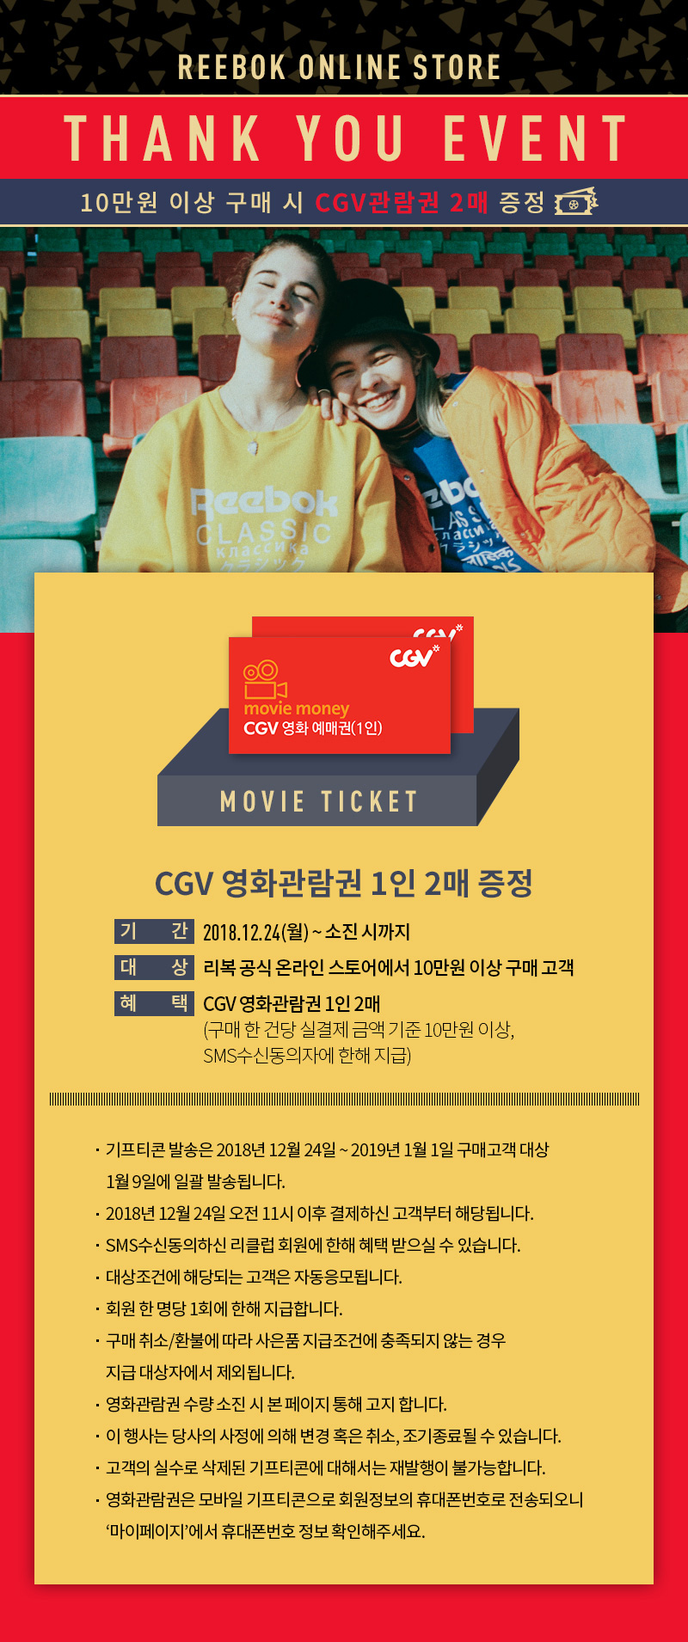
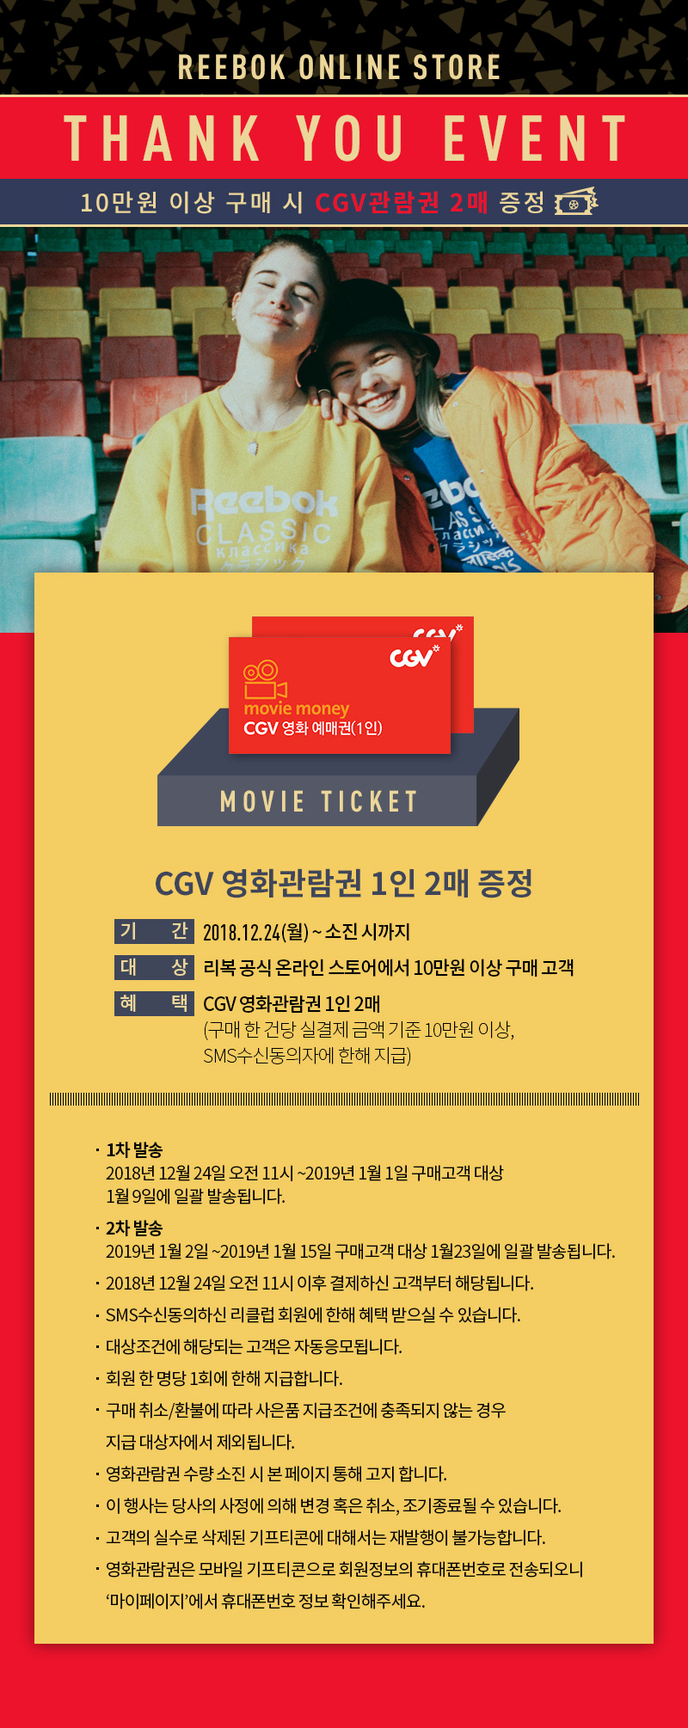
무비

Changed region(s): [[0.0, 0.0309, 1.0, 0.9885], [0.6562, 0.8031, 0.7188, 0.834]]

diff --git a/mobile/html/reebok/event/aboutus/campaign/reeclub_movie/build/index.html b/mobile/html/reebok/event/aboutus/campaign/reeclub_movie/build/index.html
@@ -59,15 +59,25 @@
 			<!-- //header -->
 
 			<section id="contents">
-<style type="text/css">#contents{padding-bottom:0px}.pseudo-element,.campaign .close:after,.campaign .close:before,.campaign .video_visual .video_layer:before,.campaign .video-btn:before,.campaign .location a:after{content:'';display:block}html{font-size:12px}@media screen and (max-width: 320px){html{font-size:10px}}@media screen and (min-width: 800px){html{font-size:12px}}.element_to_pop_up{background-color:#fafafb;color:#000;display:none;width:320px;overflow:hidden}@media screen and (max-width: 320px){.element_to_pop_up{width:300px}}.element_to_pop_up .b-close{cursor:pointer;position:absolute;right:15px;top:15px;text-align:right}.element_to_pop_up .b-close img{width:50%}.element_to_pop_up .con{text-align:center}.element_to_pop_up .con img{width:80%}.element_to_pop_up .desc{background:url("/images/reebok/about/heritage/pop_bg.png") 0 0 no-repeat;background-size:100% 100%;padding:3.5rem 0}.element_to_pop_up .desc .tle{position:relative;margin:0px 0 0 1rem;color:#000;font:600 4rem 'dinpro cond'}.element_to_pop_up .desc .tle:before{position:absolute;top:-20px;content:'';width:42px;height:2px;background:#000}.element_to_pop_up .desc .tle2{margin:1rem 0 0 1rem;color:#000;font:0.9rem/1.8rem  'NotoSansKR';letter-spacing:-0.8px}.element_to_pop_up .desc .btn{padding:2rem 0 0 1rem}.element_to_pop_up .desc .btn a.inner-buybtn{position:relative;display:inline-block;margin:0;padding:0 50px;color:#866432;border:2px solid #866432;font:15px/46px  'NotoSansKR';overflow:hidden}.element_to_pop_up .desc .btn a.inner-buybtn em{position:relative;z-index:100;transition:all 0.6s ease-out}.element_to_pop_up .desc .btn a.inner-buybtn .bg{display:inline-block;width:100%;height:63px;position:absolute;bottom:-64px;left:0;background:#866432;transition:all 0.4s ease-out}.element_to_pop_up .desc a.inner-buybtn:hover{color:#fff}.element_to_pop_up .desc a.inner-buybtn:hover .bg{bottom:-10px}.element_to_pop_up .bg_shoe{position:absolute;bottom:0;text-align:right}.element_to_pop_up .bg_shoe img{width:60%;mix-blend-mode:multiply}.clearfix:after{content:'.';display:block;height:0;font-size:0;clear:both;visibility:hidden}.campaign .close{width:40px;height:40px;display:block;position:absolute;top:0;right:0;z-index:10}.campaign .close:after,.campaign .close:before{width:50%;height:1px;position:absolute;top:50%;left:50%;transform:translate3d(-50%, -50%, 0) rotate(45deg);-webkit-transform:translate3d(-50%, -50%, 0) rotate(45deg);background:#5c5c5c}.campaign .close:after{transform:translate3d(-50%, -50%, 0) rotate(-45deg);-webkit-transform:translate3d(-50%, -50%, 0) rotate(-45deg)}.campaign .button_area{padding:0rem 0px;text-align:center}.campaign .button_area .button{padding:1.2rem 2.5rem;display:inline-block;font:500 1.3rem 'dinpro cond','NotoSansKR';color:#000;border:1px solid  #000}.campaign .video_visual{box-sizing:border-box;-webkit-box-sizing:border-box;width:100%;padding-bottom:123.4375%;position:relative}.campaign .video_visual .cover{width:100%;position:absolute;top:50%;left:0;transform:translate3d(0, -50%, 0);-webkit-transform:translate3d(0, -50%, 0);z-index:1}.campaign .video_visual .cover h2{font:4rem/4rem 'QStencil';text-align:center}.campaign .video_visual .bg{position:absolute;width:100%;height:100%}.campaign .video_visual .bg img{width:100%}.campaign .video_visual .video_layer{position:absolute;top:0;left:0;width:100%;height:100%;z-index:-1;overflow:hidden}.campaign .video_visual .video_layer .close{width:40px;height:40px;top:5px;right:5px;opacity:0;transition:opacity 0.5s ease 0.3s;-webkit-transition:opacity 0.5s 0.3s}.campaign .video_visual .video_layer .close:before,.campaign .video_visual .video_layer .close:after{width:70%;height:2px;background:#fff}.campaign .video_visual .video_layer iframe{position:relative;z-index:3}.campaign .video_visual .video_layer:before{width:100%;height:100%;transition:all 0.5s;-webkit-transition:all 0.5s;background:#000;filter:blur(10px);-webkit-filter:blur(10px);opacity:0;transform-origin:center center;-webkit-transform-origin:center center;transform:scale(0);-webkit-transform:scale(0);position:absolute;top:0;left:0}.campaign .video_visual .video_layer.active{z-index:1}.campaign .video_visual .video_layer.active .close{opacity:1}.campaign .video_visual .video_layer.active:before{opacity:1;transform:scale(2);-webkit-transform:scale(2)}.campaign .video_visual .video_layer.hide{z-index:1}.campaign .video_visual .video_layer.hide .close{opacity:0;transition-delay:0;-webkit-transition-delay:0}.campaign .video_visual .video_layer.hide:before{opacity:0;transform:scale(0);-webkit-transform:scale(0)}.campaign .video-btn{width:70px;height:70px;display:block;border:7px solid  #fff;position:relative;border-radius:70px;box-sizing:border-box;-webkit-box-sizing:border-box}.campaign .video-btn:before{position:absolute;top:50%;left:50%;border-top:14px solid transparent;border-bottom:14px solid transparent;border-left:14px solid #fff;margin-left:2px;transform:translate3d(-50%, -50%, 0);-webkit-transform:translate3d(-50%, -50%, 0)}.campaign .location{display:-webkit-flex;display:-moz-flex;display:-ms-flex;display:-o-flex;display:flex;padding:15px 13px;border-top:2px solid  #b71720;background:#252525}.campaign .location>*{margin-right:15px;font:500 13px 'dinpro cond';text-transform:uppercase}.campaign .location a{position:relative;color:#8c8c8c}.campaign .location a:after{width:4px;height:4px;position:absolute;top:2px;right:-9px;border-bottom:1px solid #5c5c5c;border-right:1px solid #5c5c5c;transform:rotate(-45deg);-webkit-transform:rotate(-45deg)}.campaign .location>span{color:#fff;margin-right:0}.campaign .location>span .colab{margin:0px 2px;font-family:'dinpro cond';font-weight:100}.campaign .num_paging{text-align:center}.campaign .num_paging a{width:26px;height:26px;border-radius:26px;margin:0 2px;display:inline-block;border:1px solid #fff;box-sizing:border-box;color:#fff;font:16px/26px 'reefont-condensed';transition-duration:0s;-webkit-transition-duration:0s}.campaign .num_paging .on{color:#000;border-color:#000;background:#000;color:#fff}.campaign .prodlist{width:100%;padding:0 15px;position:relative;display:-webkit-flex;display:-moz-flex;display:-ms-flex;display:-o-flex;display:flex;-webkit-flex-wrap:wrap;flex-wrap:wrap;box-sizing:border-box;-webkit-box-sizing:border-box}.campaign .prodlist>.box{width:50%;margin-bottom:10px}.campaign .prodlist>.box .inner{width:100%;padding-right:5px;position:relative;box-sizing:border-box;-webkit-box-sizing:border-box}.campaign .prodlist>.box .inner>a{width:100%;width:calc(100% - 5px);height:100%;position:absolute;top:0;left:0;display:block;z-index:5}.campaign .prodlist>.box .img{width:100%;position:relative;padding-bottom:122.6190%;background:#fff}.campaign .prodlist>.box .img img{position:absolute;top:0;left:0;width:100%}.campaign .prodlist>.box .info{padding:20px 0 20px 12px;background:#fff}.campaign .prodlist>.box .info>*{text-transform:uppercase;font:500 1rem 'dinpro cond'}.campaign .prodlist>.box .info .ctgr{margin-bottom:0.2rem;color:#7f7979}.campaign .prodlist>.box .info .tit a{color:#252525;font:500 1.4rem 'dinpro cond'}.campaign .prodlist>.box:nth-child(2n) .inner{padding-right:0;padding-left:5px}.main .video_visual{width:100%;padding-bottom:104%;position:relative}.main .video_visual .cover>*{color:#fff;text-align:center}.main .video_visual .cover h2{font:5.4rem/5rem 'QStencil';color:#fff;margin-bottom:1.2rem}.main .video_visual .cover .desc{margin-bottom:2rem;font:300 1.6rem 'NotoSansKR'}.main .video_visual .cover .video-btn{width:60px;height:60px;border-width:6px;margin:0 auto}.main .video_visual .cover .video-btn:before{border-top-width:12px;border-bottom-width:12px;border-left-width:12px}.main .video_visual .bg{overflow:hidden}.main .video_visual .bg img{position:absolute;top:0;left:0;opacity:0;transform:scale(1.02);-webkit-transform:scale(1.02);transition:all 1.5s;-webkit-transition:all 1.5s}.main .video_visual .bg img.active{opacity:1;transform:scale(1);-webkit-transform:scale(1)}.main .camapign_list a{width:100%;padding-bottom:104%}.main .camapign_list img{width:100%}.about_campaign .banner{width:100%}.about_campaign .banner *{display:block;width:100%}.about_campaign .list_btn{background:#e8e8e8;padding:4rem 1.5rem}.about_campaign .list_btn a{width:100%;height:5rem;display:block;border:1px solid #2e2e2e;text-align:center;font:500 2.2rem/5rem 'dinpro cond';color:#000;letter-spacing:2px}.about_campaign .list{background:#333;text-align:center}.about_campaign .list a{color:#fff;display:block;padding:2.3rem 6rem}.about_campaign .list a span{position:relative;left:-5px;display:inline-block;width:68%;vertical-align:middle}.about_campaign .list a span img{width:100%}.about_campaign .list a em{vertical-align:middle}.about_campaign .list a em:after{font-size:15px;position:relative;top:1px}.about_campaign .list a:after{font-size:1.5rem;padding:0.5rem 0 0 1rem;display:inline-block}#video-layer.popup-video.loaded .bg{opacity:.7}#video-layer.popup-video .video-box{position:absolute;top:50%;left:50%;width:100%;height:50%;transform:translate(-50%, -50%);-webkit-transform:translate(-50%, -50%);-moz-transform:translate(-50%, -50%);-o-transform:translate(-50%, -50%);-ms-transform:translate(-50%, -50%);z-index:3}#video-layer.popup-video .close_x_btn{width:50px;height:50px;top:12%}#video-layer{position:fixed;top:0;left:0;width:100%;height:100%;z-index:1000}#video-layer.loaded .bg{opacity:1;transform:scale(1.2);-webkit-transform:scale(1.2)}#video-layer.loaded .close_x_btn{opacity:1}#video-layer .video-box{position:relative;width:100%;height:100%;z-index:3}#video-layer .close_x_btn{width:70px;height:70px;position:absolute;top:0;right:0;z-index:5;opacity:0}#video-layer .bg{width:100%;height:100%;position:absolute;top:0;left:0;transform-origin:center center;-webkit-transform-origin:center center;transform:scale(0);-webkit-transform:scale(0);opacity:0;background:#000;z-index:1;transition:all 0.4s;-webkit-transition:all 0.4s}.main_list .video_visual{position:relative;background:#eff0ea;padding-bottom:149%}@media screen and (min-width: 750px){.main_list .video_visual{padding-bottom:125%}}.main_list .video_visual .bg img{box-sizing:border-box;-webkit-box-sizing:border-box;border:10px solid #eff0ea}.main_list .video_visual .cover{top:35%}.main_list .video_visual .txt{position:absolute;bottom:8%;width:100%;text-align:center}.main_list .video_visual .txt a.full_link{position:absolute;top:-16px;left:0;width:100%;height:143%}@media screen and (min-width: 750px){.main_list .video_visual .txt{bottom:6%}}.main_list .video_visual .txt .title{font:3.3rem 'QStencil'}.main_list .video_visual .txt .tit{display:inline-block;padding-bottom:1.5rem;font:400 1.2rem 'NotoSansKR';letter-spacing:-1px}.main_list .video_visual .txt .btn a{display:inline-block;padding:0.3rem 3.5rem 0 3.5rem;border:1px solid #151515;font:400 1.3rem/3.8rem 'dinpro cond', 'NotoSansKR';color:#000}.main_list .box{position:relative;border-bottom:2px solid #bebfba}.main_list .box a.nano_m{position:absolute;top:0;left:0;width:50%;height:100%}.main_list .box a.nano_w{position:absolute;top:0;right:0;width:50%;height:100%}.main_list .box a.full_link{position:absolute;top:0;left:0;width:100%;height:100%}.main_list .box .img{border:10px solid #eff0ea;box-sizing:border-box;-webkit-box-sizing:border-box}.main_list .box .img img{width:100%}.main_list .box .txt{padding:1rem 0 3rem 0;text-align:center;background:#eff0ea}.main_list .box .txt .title{font:3.8rem 'QStencil'}.main_list .box .txt .title span{display:inline-block;vertical-align:middle;line-height:4rem}.main_list .box .txt .title span img{width:3.3rem}.main_list .box .txt .tit{display:inline-block;padding-bottom:1.5rem;font:400 1.1rem 'NotoSansKR';letter-spacing:-1px}.main_list .box .txt .btn a{display:inline-block;width:12rem;padding:0.3rem 0 0 0;border:1px solid #151515;font:1.3rem/3.8rem 'dinpro cond', 'NotoSansKR';color:#000}.campaign_list_update{display:block;background:url("/images/reebok/about/campaign_list/bg.jpg");background-size:100%;padding:8rem 1rem 4rem 1rem}.campaign_list_update .box{padding-bottom:1rem}.campaign_list_update .box a{display:block}.campaign_list_update .box a img{width:100%}.campaign_list_update .box:last-child{padding-bottom:0px}.reeclub_movie .main{position:relative}.reeclub_movie .main .bg img{width:100%}.reeclub_movie .main a{position:absolute;top:87.8%;left:27%;width:46%;height:2.2%}
+<style type="text/css">#contents{padding-bottom:0px}.pseudo-element,.campaign .close:after,.campaign .close:before,.campaign .video_visual .video_layer:before,.campaign .video-btn:before,.campaign .location a:after{content:'';display:block}html{font-size:12px}@media screen and (max-width: 320px){html{font-size:10px}}@media screen and (min-width: 800px){html{font-size:12px}}.element_to_pop_up{background-color:#fafafb;color:#000;display:none;width:320px;overflow:hidden}@media screen and (max-width: 320px){.element_to_pop_up{width:300px}}.element_to_pop_up .b-close{cursor:pointer;position:absolute;right:15px;top:15px;text-align:right}.element_to_pop_up .b-close img{width:50%}.element_to_pop_up .con{text-align:center}.element_to_pop_up .con img{width:80%}.element_to_pop_up .desc{background:url("/images/reebok/about/heritage/pop_bg.png") 0 0 no-repeat;background-size:100% 100%;padding:3.5rem 0}.element_to_pop_up .desc .tle{position:relative;margin:0px 0 0 1rem;color:#000;font:600 4rem 'dinpro cond'}.element_to_pop_up .desc .tle:before{position:absolute;top:-20px;content:'';width:42px;height:2px;background:#000}.element_to_pop_up .desc .tle2{margin:1rem 0 0 1rem;color:#000;font:0.9rem/1.8rem  'NotoSansKR';letter-spacing:-0.8px}.element_to_pop_up .desc .btn{padding:2rem 0 0 1rem}.element_to_pop_up .desc .btn a.inner-buybtn{position:relative;display:inline-block;margin:0;padding:0 50px;color:#866432;border:2px solid #866432;font:15px/46px  'NotoSansKR';overflow:hidden}.element_to_pop_up .desc .btn a.inner-buybtn em{position:relative;z-index:100;transition:all 0.6s ease-out}.element_to_pop_up .desc .btn a.inner-buybtn .bg{display:inline-block;width:100%;height:63px;position:absolute;bottom:-64px;left:0;background:#866432;transition:all 0.4s ease-out}.element_to_pop_up .desc a.inner-buybtn:hover{color:#fff}.element_to_pop_up .desc a.inner-buybtn:hover .bg{bottom:-10px}.element_to_pop_up .bg_shoe{position:absolute;bottom:0;text-align:right}.element_to_pop_up .bg_shoe img{width:60%;mix-blend-mode:multiply}.clearfix:after{content:'.';display:block;height:0;font-size:0;clear:both;visibility:hidden}.campaign .close{width:40px;height:40px;display:block;position:absolute;top:0;right:0;z-index:10}.campaign .close:after,.campaign .close:before{width:50%;height:1px;position:absolute;top:50%;left:50%;transform:translate3d(-50%, -50%, 0) rotate(45deg);-webkit-transform:translate3d(-50%, -50%, 0) rotate(45deg);background:#5c5c5c}.campaign .close:after{transform:translate3d(-50%, -50%, 0) rotate(-45deg);-webkit-transform:translate3d(-50%, -50%, 0) rotate(-45deg)}.campaign .button_area{padding:0rem 0px;text-align:center}.campaign .button_area .button{padding:1.2rem 2.5rem;display:inline-block;font:500 1.3rem 'dinpro cond','NotoSansKR';color:#000;border:1px solid  #000}.campaign .video_visual{box-sizing:border-box;-webkit-box-sizing:border-box;width:100%;padding-bottom:123.4375%;position:relative}.campaign .video_visual .cover{width:100%;position:absolute;top:50%;left:0;transform:translate3d(0, -50%, 0);-webkit-transform:translate3d(0, -50%, 0);z-index:1}.campaign .video_visual .cover h2{font:4rem/4rem 'QStencil';text-align:center}.campaign .video_visual .bg{position:absolute;width:100%;height:100%}.campaign .video_visual .bg img{width:100%}.campaign .video_visual .video_layer{position:absolute;top:0;left:0;width:100%;height:100%;z-index:-1;overflow:hidden}.campaign .video_visual .video_layer .close{width:40px;height:40px;top:5px;right:5px;opacity:0;transition:opacity 0.5s ease 0.3s;-webkit-transition:opacity 0.5s 0.3s}.campaign .video_visual .video_layer .close:before,.campaign .video_visual .video_layer .close:after{width:70%;height:2px;background:#fff}.campaign .video_visual .video_layer iframe{position:relative;z-index:3}.campaign .video_visual .video_layer:before{width:100%;height:100%;transition:all 0.5s;-webkit-transition:all 0.5s;background:#000;filter:blur(10px);-webkit-filter:blur(10px);opacity:0;transform-origin:center center;-webkit-transform-origin:center center;transform:scale(0);-webkit-transform:scale(0);position:absolute;top:0;left:0}.campaign .video_visual .video_layer.active{z-index:1}.campaign .video_visual .video_layer.active .close{opacity:1}.campaign .video_visual .video_layer.active:before{opacity:1;transform:scale(2);-webkit-transform:scale(2)}.campaign .video_visual .video_layer.hide{z-index:1}.campaign .video_visual .video_layer.hide .close{opacity:0;transition-delay:0;-webkit-transition-delay:0}.campaign .video_visual .video_layer.hide:before{opacity:0;transform:scale(0);-webkit-transform:scale(0)}.campaign .video-btn{width:70px;height:70px;display:block;border:7px solid  #fff;position:relative;border-radius:70px;box-sizing:border-box;-webkit-box-sizing:border-box}.campaign .video-btn:before{position:absolute;top:50%;left:50%;border-top:14px solid transparent;border-bottom:14px solid transparent;border-left:14px solid #fff;margin-left:2px;transform:translate3d(-50%, -50%, 0);-webkit-transform:translate3d(-50%, -50%, 0)}.campaign .location{display:-webkit-flex;display:-moz-flex;display:-ms-flex;display:-o-flex;display:flex;padding:15px 13px;border-top:2px solid  #b71720;background:#252525}.campaign .location>*{margin-right:15px;font:500 13px 'dinpro cond';text-transform:uppercase}.campaign .location a{position:relative;color:#8c8c8c}.campaign .location a:after{width:4px;height:4px;position:absolute;top:2px;right:-9px;border-bottom:1px solid #5c5c5c;border-right:1px solid #5c5c5c;transform:rotate(-45deg);-webkit-transform:rotate(-45deg)}.campaign .location>span{color:#fff;margin-right:0}.campaign .location>span .colab{margin:0px 2px;font-family:'dinpro cond';font-weight:100}.campaign .num_paging{text-align:center}.campaign .num_paging a{width:26px;height:26px;border-radius:26px;margin:0 2px;display:inline-block;border:1px solid #fff;box-sizing:border-box;color:#fff;font:16px/26px 'reefont-condensed';transition-duration:0s;-webkit-transition-duration:0s}.campaign .num_paging .on{color:#000;border-color:#000;background:#000;color:#fff}.campaign .prodlist{width:100%;padding:0 15px;position:relative;display:-webkit-flex;display:-moz-flex;display:-ms-flex;display:-o-flex;display:flex;-webkit-flex-wrap:wrap;flex-wrap:wrap;box-sizing:border-box;-webkit-box-sizing:border-box}.campaign .prodlist>.box{width:50%;margin-bottom:10px}.campaign .prodlist>.box .inner{width:100%;padding-right:5px;position:relative;box-sizing:border-box;-webkit-box-sizing:border-box}.campaign .prodlist>.box .inner>a{width:100%;width:calc(100% - 5px);height:100%;position:absolute;top:0;left:0;display:block;z-index:5}.campaign .prodlist>.box .img{width:100%;position:relative;padding-bottom:122.6190%;background:#fff}.campaign .prodlist>.box .img img{position:absolute;top:0;left:0;width:100%}.campaign .prodlist>.box .info{padding:20px 0 20px 12px;background:#fff}.campaign .prodlist>.box .info>*{text-transform:uppercase;font:500 1rem 'dinpro cond'}.campaign .prodlist>.box .info .ctgr{margin-bottom:0.2rem;color:#7f7979}.campaign .prodlist>.box .info .tit a{color:#252525;font:500 1.4rem 'dinpro cond'}.campaign .prodlist>.box:nth-child(2n) .inner{padding-right:0;padding-left:5px}.main .video_visual{width:100%;padding-bottom:104%;position:relative}.main .video_visual .cover>*{color:#fff;text-align:center}.main .video_visual .cover h2{font:5.4rem/5rem 'QStencil';color:#fff;margin-bottom:1.2rem}.main .video_visual .cover .desc{margin-bottom:2rem;font:300 1.6rem 'NotoSansKR'}.main .video_visual .cover .video-btn{width:60px;height:60px;border-width:6px;margin:0 auto}.main .video_visual .cover .video-btn:before{border-top-width:12px;border-bottom-width:12px;border-left-width:12px}.main .video_visual .bg{overflow:hidden}.main .video_visual .bg img{position:absolute;top:0;left:0;opacity:0;transform:scale(1.02);-webkit-transform:scale(1.02);transition:all 1.5s;-webkit-transition:all 1.5s}.main .video_visual .bg img.active{opacity:1;transform:scale(1);-webkit-transform:scale(1)}.main .camapign_list a{width:100%;padding-bottom:104%}.main .camapign_list img{width:100%}.about_campaign .banner{width:100%}.about_campaign .banner *{display:block;width:100%}.about_campaign .list_btn{background:#e8e8e8;padding:4rem 1.5rem}.about_campaign .list_btn a{width:100%;height:5rem;display:block;border:1px solid #2e2e2e;text-align:center;font:500 2.2rem/5rem 'dinpro cond';color:#000;letter-spacing:2px}.about_campaign .list{background:#333;text-align:center}.about_campaign .list a{color:#fff;display:block;padding:2.3rem 6rem}.about_campaign .list a span{position:relative;left:-5px;display:inline-block;width:68%;vertical-align:middle}.about_campaign .list a span img{width:100%}.about_campaign .list a em{vertical-align:middle}.about_campaign .list a em:after{font-size:15px;position:relative;top:1px}.about_campaign .list a:after{font-size:1.5rem;padding:0.5rem 0 0 1rem;display:inline-block}#video-layer.popup-video.loaded .bg{opacity:.7}#video-layer.popup-video .video-box{position:absolute;top:50%;left:50%;width:100%;height:50%;transform:translate(-50%, -50%);-webkit-transform:translate(-50%, -50%);-moz-transform:translate(-50%, -50%);-o-transform:translate(-50%, -50%);-ms-transform:translate(-50%, -50%);z-index:3}#video-layer.popup-video .close_x_btn{width:50px;height:50px;top:12%}#video-layer{position:fixed;top:0;left:0;width:100%;height:100%;z-index:1000}#video-layer.loaded .bg{opacity:1;transform:scale(1.2);-webkit-transform:scale(1.2)}#video-layer.loaded .close_x_btn{opacity:1}#video-layer .video-box{position:relative;width:100%;height:100%;z-index:3}#video-layer .close_x_btn{width:70px;height:70px;position:absolute;top:0;right:0;z-index:5;opacity:0}#video-layer .bg{width:100%;height:100%;position:absolute;top:0;left:0;transform-origin:center center;-webkit-transform-origin:center center;transform:scale(0);-webkit-transform:scale(0);opacity:0;background:#000;z-index:1;transition:all 0.4s;-webkit-transition:all 0.4s}.main_list .video_visual{position:relative;background:#eff0ea;padding-bottom:149%}@media screen and (min-width: 750px){.main_list .video_visual{padding-bottom:125%}}.main_list .video_visual .bg img{box-sizing:border-box;-webkit-box-sizing:border-box;border:10px solid #eff0ea}.main_list .video_visual .cover{top:35%}.main_list .video_visual .txt{position:absolute;bottom:8%;width:100%;text-align:center}.main_list .video_visual .txt a.full_link{position:absolute;top:-16px;left:0;width:100%;height:143%}@media screen and (min-width: 750px){.main_list .video_visual .txt{bottom:6%}}.main_list .video_visual .txt .title{font:3.3rem 'QStencil'}.main_list .video_visual .txt .tit{display:inline-block;padding-bottom:1.5rem;font:400 1.2rem 'NotoSansKR';letter-spacing:-1px}.main_list .video_visual .txt .btn a{display:inline-block;padding:0.3rem 3.5rem 0 3.5rem;border:1px solid #151515;font:400 1.3rem/3.8rem 'dinpro cond', 'NotoSansKR';color:#000}.main_list .box{position:relative;border-bottom:2px solid #bebfba}.main_list .box a.nano_m{position:absolute;top:0;left:0;width:50%;height:100%}.main_list .box a.nano_w{position:absolute;top:0;right:0;width:50%;height:100%}.main_list .box a.full_link{position:absolute;top:0;left:0;width:100%;height:100%}.main_list .box .img{border:10px solid #eff0ea;box-sizing:border-box;-webkit-box-sizing:border-box}.main_list .box .img img{width:100%}.main_list .box .txt{padding:1rem 0 3rem 0;text-align:center;background:#eff0ea}.main_list .box .txt .title{font:3.8rem 'QStencil'}.main_list .box .txt .title span{display:inline-block;vertical-align:middle;line-height:4rem}.main_list .box .txt .title span img{width:3.3rem}.main_list .box .txt .tit{display:inline-block;padding-bottom:1.5rem;font:400 1.1rem 'NotoSansKR';letter-spacing:-1px}.main_list .box .txt .btn a{display:inline-block;width:12rem;padding:0.3rem 0 0 0;border:1px solid #151515;font:1.3rem/3.8rem 'dinpro cond', 'NotoSansKR';color:#000}.campaign_list_update{display:block;background:url("/images/reebok/about/campaign_list/bg.jpg");background-size:100%;padding:8rem 1rem 4rem 1rem}.campaign_list_update .box{padding-bottom:1rem}.campaign_list_update .box a{display:block}.campaign_list_update .box a img{width:100%}.campaign_list_update .box:last-child{padding-bottom:0px}.reeclub_movie .main{position:relative}.reeclub_movie .main .bg img{width:100%}.reeclub_movie .main a{position:absolute;top:87.8%;left:27%;width:46%;height:2.2%}.reeclub_movie .box{position:relative}.reeclub_movie .box img{width:100%}.reeclub_movie .link{display:block;position:absolute;text-indent:-9999px}
 </style>
 				<div class="campaign about_campaign reeclub_movie">
 
 					<div class="main">
-						<div class="bg"><img src="/images/reebok/about/reeclub_movie/1812_r_movieticket_MO.jpg" alt=""></div>
+						<div class="bg"><img src="/images/reebok/about/reeclub_movie/1901_r_movieticket_MO_top.jpg" alt=""></div>
 						<!-- <a href="http://m.reebok.co.kr/MO/Customer/customerStoreList.action?store_divi_vi=&store_divi=&CLUB_YN=&CPON_ID=9616&EVENT_ID="></a> -->
 					</div>
-
+					<div class="box">
+						<a href="http://m.reebok.co.kr/MO/Promotion/landingPage.action?pageNo=702" onfocus="this.blur();" class="link" style="width: 45%;height: 20%;top: 7.6%;left: 3.5%;" alt="윈터자켓"></a>
+						<a href="http://m.reebok.co.kr/MO/Product/eachCatPrdListData.action?ctgr_cd=02006003#ctgr_cd=02006003&strPage=1&term=2" onfocus="this.blur();" class="link" style="width: 45%;height: 20%;top: 7.6%;left: 51.5%;" alt="크로스핏"></a>
+						<a href="http://m.reebok.co.kr/MO/Product/eachCatPrdListData.action?ctgr_cd=02004001006#ctgr_cd=02004001006&strPage=1&term=2" onfocus="this.blur();" class="link" style="width: 45%;height: 20%;top: 29.5%;left: 3.5%;" alt="트레이닝"></a>
+						<a href="http://m.reebok.co.kr/MO/Product/eachCatPrdListData.action?ctgr_cd=02004001003#ctgr_cd=02004001003&strPage=1&term=2" onfocus="this.blur();" class="link" style="width: 45%;height: 20%;top: 29.5%;left: 51.5%;" alt="러닝"></a>
+						<a href="http://m.reebok.co.kr/MO/Product/bnsPrdList.action?section=BEST&ctgr_cd=02005#section=BEST&ctgr_cd=02005&term=1&strPage=1" onfocus="this.blur();" class="link" style="width: 45%;height: 20%;top: 50.5%;left: 3.5%;" alt="클래식"></a>
+						<a href="http://m.reebok.co.kr/MO/Product/eachCatPrdListData.action?ctgr_cd=02002002#ctgr_cd=02002002&strPage=1&term=2" onfocus="this.blur();" class="link" style="width: 45%;height: 20%;top: 50.5%;left: 51.5%;" alt="우먼스"></a>
+						<a href="http://m.reebok.co.kr/MO/Product/eachCatPrdListData.action?ctgr_cd=02006012001#ctgr_cd=02006012001&strPage=1&term=2" onfocus="this.blur();" class="link" style="width: 45%;height: 20%;top: 72.1%;left: 3.5%;" alt="컴뱃"></a>
+						<a href="http://m.reebok.co.kr/MO/Product/eachCatPrdListData.action?ctgr_cd=02003001#ctgr_cd=02003001&strPage=1&term=2" onfocus="this.blur();" class="link" style="width: 45%;height: 20%;top: 72.1%;left: 51.5%;" alt="키즈"></a>
+						<img src="/images/reebok/about/reeclub_movie/1901_r_movieticket_MO.jpg" alt="">
+					</div>
 				</div>
 				<!-- //about_campaign -->
 

diff --git a/mobile/html/reebok/event/aboutus/campaign/reeclub_movie/index.html b/mobile/html/reebok/event/aboutus/campaign/reeclub_movie/index.html
@@ -65,7 +65,17 @@
 						<div class="bg"><img src="/images/reebok/about/reeclub_movie/1812_r_movieticket_MO.jpg" alt=""></div>
 						<!-- <a href="http://m.reebok.co.kr/MO/Customer/customerStoreList.action?store_divi_vi=&store_divi=&CLUB_YN=&CPON_ID=9616&EVENT_ID="></a> -->
 					</div>
-
+					<div class="box">
+						<a href="http://m.reebok.co.kr/MO/Promotion/landingPage.action?pageNo=702" onfocus="this.blur();" class="link" style="width: 45%;height: 20%;top: 7.6%;left: 3.5%;" alt="윈터자켓"></a>
+						<a href="http://m.reebok.co.kr/MO/Product/eachCatPrdListData.action?ctgr_cd=02006003#ctgr_cd=02006003&strPage=1&term=2" onfocus="this.blur();" class="link" style="width: 45%;height: 20%;top: 7.6%;left: 51.5%;" alt="크로스핏"></a>
+						<a href="http://m.reebok.co.kr/MO/Product/eachCatPrdListData.action?ctgr_cd=02004001006#ctgr_cd=02004001006&strPage=1&term=2" onfocus="this.blur();" class="link" style="width: 45%;height: 20%;top: 29.5%;left: 3.5%;" alt="트레이닝"></a>
+						<a href="http://m.reebok.co.kr/MO/Product/eachCatPrdListData.action?ctgr_cd=02004001003#ctgr_cd=02004001003&strPage=1&term=2" onfocus="this.blur();" class="link" style="width: 45%;height: 20%;top: 29.5%;left: 51.5%;" alt="러닝"></a>
+						<a href="http://m.reebok.co.kr/MO/Product/bnsPrdList.action?section=BEST&ctgr_cd=02005#section=BEST&ctgr_cd=02005&term=1&strPage=1" onfocus="this.blur();" class="link" style="width: 45%;height: 20%;top: 50.5%;left: 3.5%;" alt="클래식"></a>
+						<a href="http://m.reebok.co.kr/MO/Product/eachCatPrdListData.action?ctgr_cd=02002002#ctgr_cd=02002002&strPage=1&term=2" onfocus="this.blur();" class="link" style="width: 45%;height: 20%;top: 50.5%;left: 51.5%;" alt="우먼스"></a>
+						<a href="http://m.reebok.co.kr/MO/Product/eachCatPrdListData.action?ctgr_cd=02006012001#ctgr_cd=02006012001&strPage=1&term=2" onfocus="this.blur();" class="link" style="width: 45%;height: 20%;top: 72.1%;left: 3.5%;" alt="컴뱃"></a>
+						<a href="http://m.reebok.co.kr/MO/Product/eachCatPrdListData.action?ctgr_cd=02003001#ctgr_cd=02003001&strPage=1&term=2" onfocus="this.blur();" class="link" style="width: 45%;height: 20%;top: 72.1%;left: 51.5%;" alt="키즈"></a>
+						<img src="/images/reebok/about/reeclub_movie/1901_r_movieticket_MO.jpg" alt="">
+					</div>
 				</div>
 				<!-- //about_campaign -->
 

diff --git a/mobile/html/reebok/event/aboutus/campaign/reeclub_movie/index.scss b/mobile/html/reebok/event/aboutus/campaign/reeclub_movie/index.scss
@@ -1,6 +1,6 @@
 @import "./mobile/MO/reebok/css/scss/about.scss";
 .reeclub_movie{
-   
+
     .main{
         position: relative;
         .bg{
@@ -14,6 +14,17 @@
             left: 27%;
             width: 46%;
             height: 2.2%;
-        }      
+        }
+    }
+    .box{
+        position: relative;
+        img{
+            width:100%;
+        }
+    }
+    .link{
+        display: block;
+        position: absolute;
+        text-indent: -9999px;
     }
 }

diff --git a/mobile/html/reebok/event/aboutus/campaign/covernat/181029/index.scss b/mobile/html/reebok/event/aboutus/campaign/covernat/181029/index.scss
@@ -1,4 +1,4 @@
-@import "./app/MO/reebok/css/scss/about.scss";
+@import "./mobile/MO/reebok/css/scss/about.scss";
 
 .covernat{
     background:#191919;
